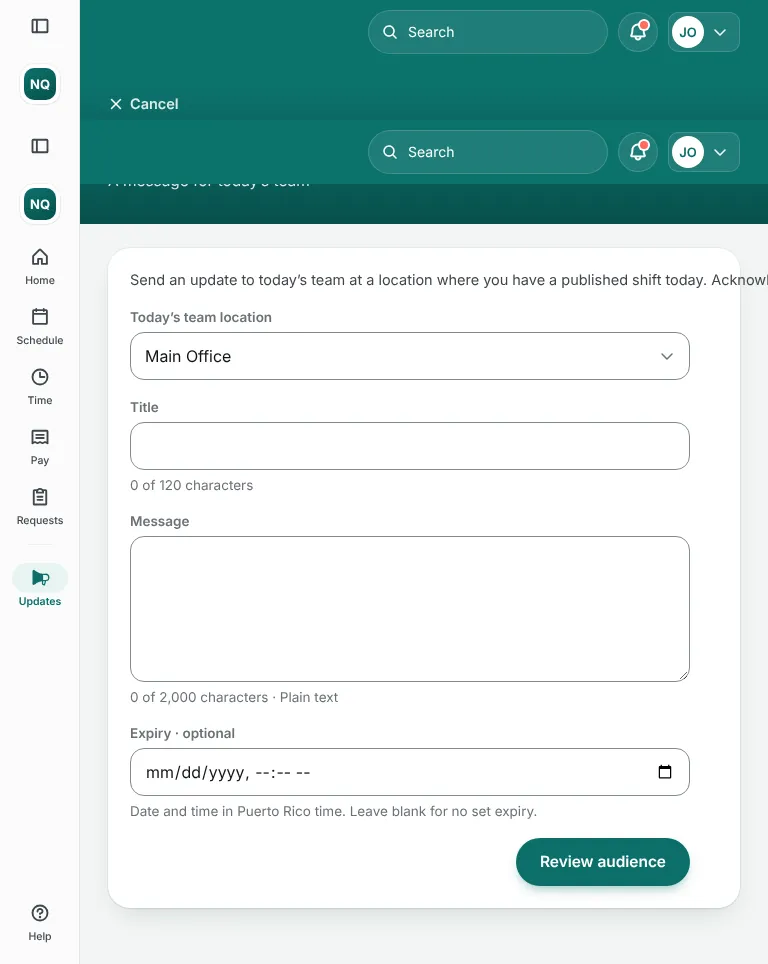
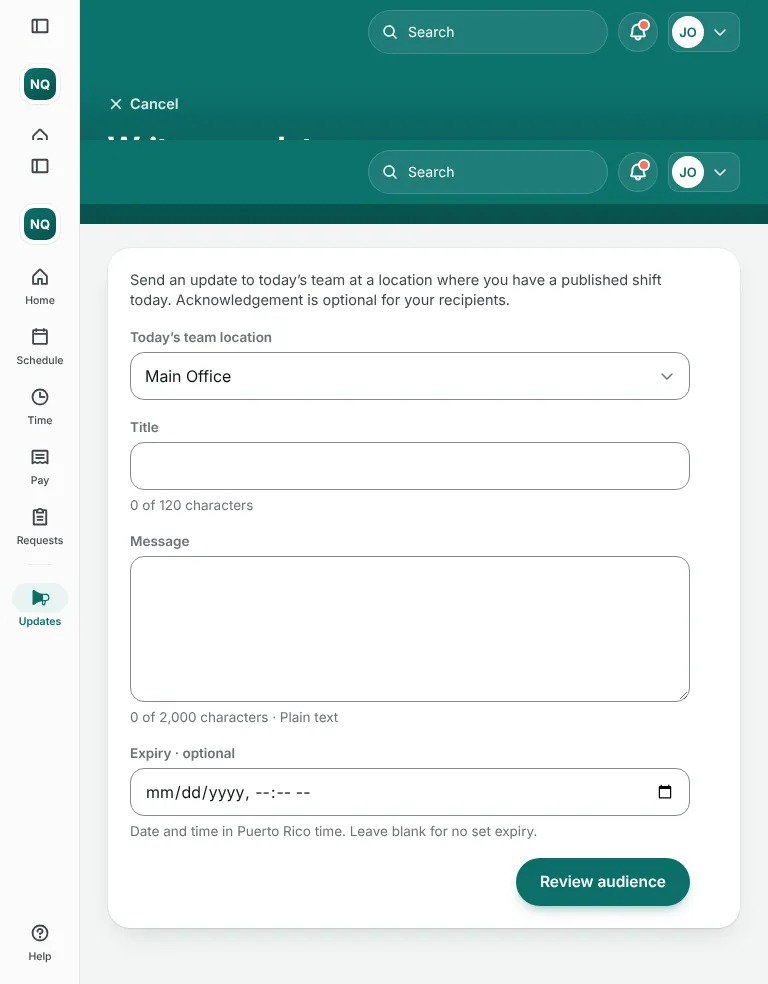
Staff package: B8 Compose captures for Lead and Employee (390/768/1440, 390 and 1440 at 200% text) and report
Claude-Session: https://claude.ai/code/session_01N2UNZGy5hsmqBCJRAsMQ9C

diff --git a/docs/handoffs/2026-11-23-phase2-cloud/reports/staff.md b/docs/handoffs/2026-11-23-phase2-cloud/reports/staff.md
@@ -60,8 +60,7 @@ names against visible text, targets under 44px, Tab order with focus rings at 14
   data reached them.
 
 ## Blocking items left
-1. B8 Compose at 390 (Lead and Employee): the form runs past the right edge. In `final-fixes.md` Package F, so left
-   for that session.
+1. (Resolved: B8 Compose at 390 was fixed by G86 on origin; 1440 with 200% text by d7b495a1.)
 2. G10 Pay (check only) at 390 with 200% text: the "Statement ready" chip runs past the right edge. For the Pay session.
 
 ## End-sweep items (proposed ledger rows)
@@ -88,3 +87,13 @@ so the fixed tab bar sits only at the bottom and hides no row. `390t200` is 390 
   clipping, overflow, overlap or axe findings.
 - 1683948e fixes what that recheck found on the hub at 320 with 200% text ("swaps for yo…", "Needs your ans…").
   The B5 rows' shots above were taken before this fix and look the same at 390.
+
+## B8 Compose follow-up (14:00)
+- d7b495a1 (`account.css`): at 1440 with 200% text the page was 2018px wide. The intro line ("Send an update to today's
+  team…") inherited `white-space: nowrap` from the compose page's container and ran 578px past the card. The form's text now
+  wraps; the rule sits in `@layer nv-b` with the weight of the shared compose rules in `employee-b-desktop.css`.
+- Back link: Compose has Cancel → Updates on the band at 390, 768 and 1440 for Lead and Employee. Updates is a tab root
+  (in the sidebar), like the Requests hub, and has no back link at desktop widths, as the other Employee tab roots.
+- Recaptured B8 for Lead and Employee from d7b495a1 (origin cbbad9ff merged) at 390, 768, 1440 and 390 and 1440 with
+  200% text: 0px overflow, no clipped, offscreen or overlapping text, axe 0 at every width. The 390 overflow is gone
+  (G86 from origin). Rows `B8-l` and `B8-e` now point at these shots.
